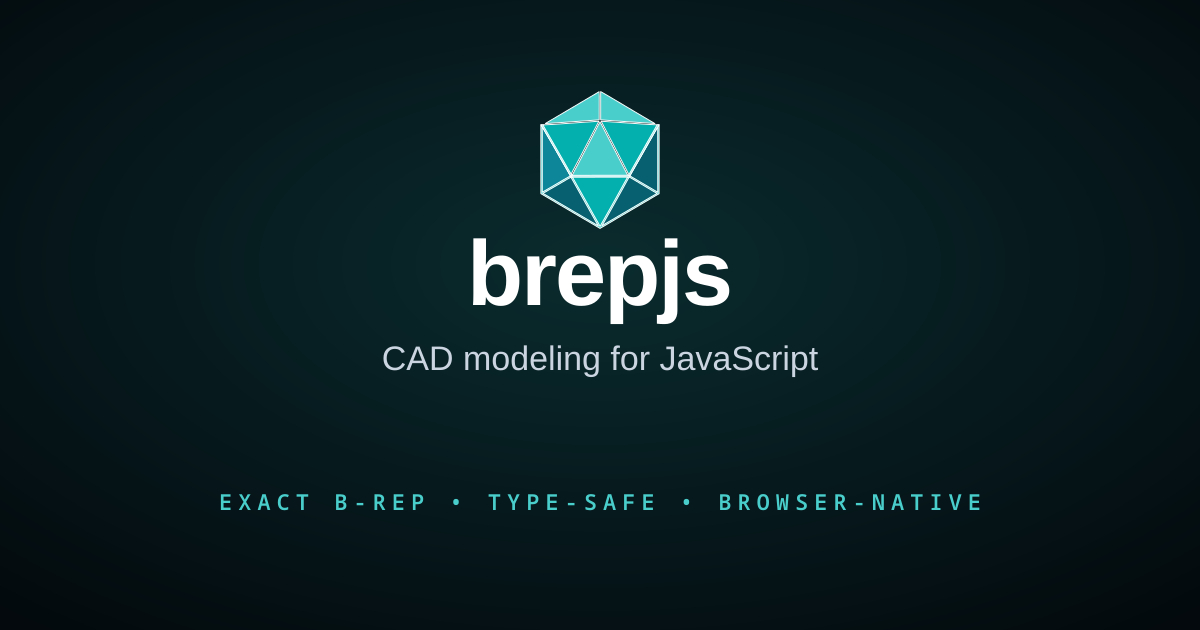
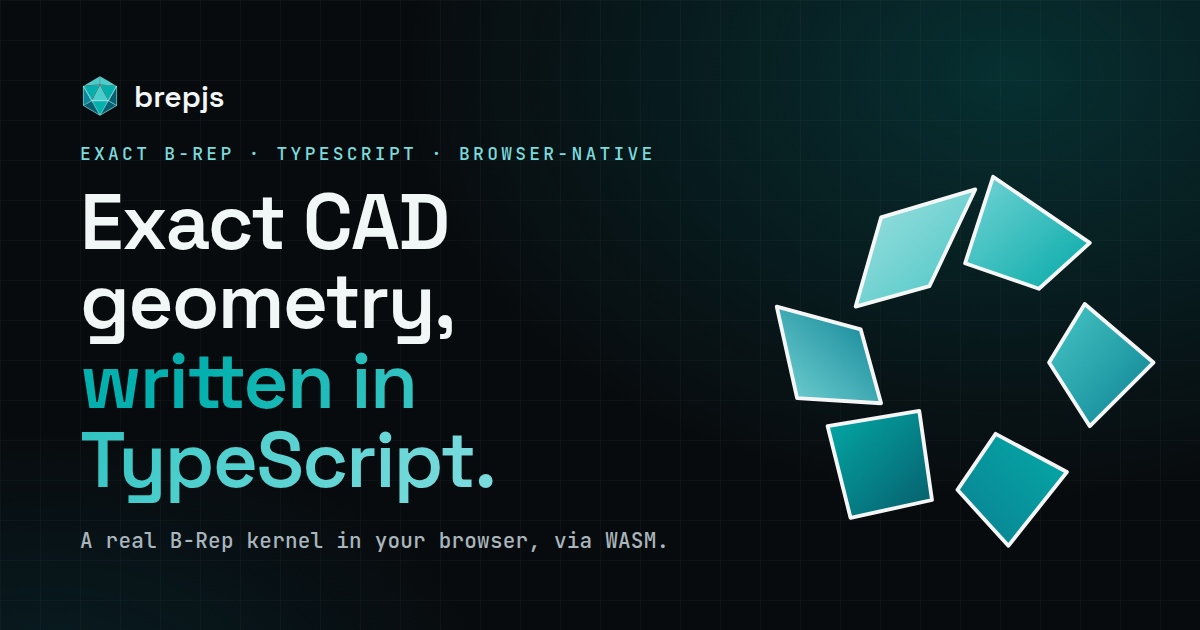
docs(landing): reduced-motion hero, a11y + OG polish (phases 3–4)
- Gate the hero cube's breathe/auto-rotate behind prefers-reduced-motion:
  reduced-motion users get a static assembled cube (dissection seams visible),
  still drag-interactive but no auto-motion. Renders once + on user drag.
- Bump --ink-2 (#6c7780 → #828d96) so caption/spec text clears WCAG AA (4.5:1)
  on the dark ground.
- Footer column headers h4 → h3 to avoid a skipped heading level.
- Add -webkit-backdrop-filter for the nav blur (Safari).
- Replace og.png with a redesign-matching 1200×630 card (gradient headline +
  orthoscheme tetrahedra).

diff --git a/apps/docs/.vitepress/theme/components/heroCubeRenderer.ts b/apps/docs/.vitepress/theme/components/heroCubeRenderer.ts
@@ -59,6 +59,11 @@ export function mountHeroCube(canvas: HTMLCanvasElement, initialDark: boolean): 
   });
   renderer.setPixelRatio(Math.min(window.devicePixelRatio, 2));
 
+  const reduceMotion =
+    typeof window !== 'undefined' &&
+    typeof window.matchMedia === 'function' &&
+    window.matchMedia('(prefers-reduced-motion: reduce)').matches;
+
   const scene = new Scene();
 
   const camera = new PerspectiveCamera(35, 1, 0.1, 100);
@@ -186,7 +191,10 @@ export function mountHeroCube(canvas: HTMLCanvasElement, initialDark: boolean): 
     camera.updateProjectionMatrix();
   }
 
-  const ro = new ResizeObserver(() => resize());
+  const ro = new ResizeObserver(() => {
+    resize();
+    if (reduceMotion) renderer.render(scene, camera);
+  });
   ro.observe(canvas);
   resize();
 
@@ -227,11 +235,24 @@ export function mountHeroCube(canvas: HTMLCanvasElement, initialDark: boolean): 
     renderer.render(scene, camera);
   }
 
-  rafId = requestAnimationFrame(tick);
+  // Honour prefers-reduced-motion: no breathing or auto-rotate. Show the
+  // assembled cube and only re-render when the user drags it (opt-in).
+  let changeHandler: (() => void) | null = null;
+  if (reduceMotion) {
+    root.rotation.y = yaw;
+    for (const p of pieces) p.mesh.position.set(p.baseX, p.baseY, p.baseZ);
+    rimLight.intensity = RIM_BASE;
+    changeHandler = () => renderer.render(scene, camera);
+    controls.addEventListener('change', changeHandler);
+    changeHandler();
+  } else {
+    rafId = requestAnimationFrame(tick);
+  }
 
   return {
     destroy(): void {
       cancelAnimationFrame(rafId);
+      if (changeHandler) controls.removeEventListener('change', changeHandler);
       ro.disconnect();
       controls.dispose();
       pieces.forEach((p) => {

diff --git a/apps/docs/.vitepress/theme/components/Landing.vue b/apps/docs/.vitepress/theme/components/Landing.vue
@@ -425,7 +425,7 @@ onBeforeUnmount(() => observer?.disconnect());
           </p>
         </div>
         <nav class="foot-col" aria-label="Documentation">
-          <h4>Docs</h4>
+          <h3>Docs</h3>
           <a href="/introduction/why-brepjs">Guide</a>
           <a href="/getting-started/install">Get Started</a>
           <a href="/agent/overview">Authoring with AI</a>
@@ -434,7 +434,7 @@ onBeforeUnmount(() => observer?.disconnect());
           >
         </nav>
         <nav class="foot-col" aria-label="Project">
-          <h4>Project</h4>
+          <h3>Project</h3>
           <a href="/playground" target="_blank" rel="noopener">Playground</a>
           <a href="https://github.com/andymai/brepjs" target="_blank" rel="noopener">GitHub</a>
           <a href="https://www.npmjs.com/package/brepjs" target="_blank" rel="noopener">npm</a>
@@ -474,7 +474,7 @@ onBeforeUnmount(() => observer?.disconnect());
 
   --ink-0: #f1f6f7;
   --ink-1: #aab6bd;
-  --ink-2: #6c7780;
+  --ink-2: #828d96;
 
   --line: #1c2530;
   --line-2: #283340;
@@ -583,6 +583,7 @@ pre code {
   position: sticky;
   top: 0;
   z-index: 30;
+  -webkit-backdrop-filter: blur(14px);
   backdrop-filter: blur(14px);
   background: rgba(8, 11, 14, 0.7);
   border-bottom: 1px solid var(--line);
@@ -1181,7 +1182,7 @@ pre.code.big {
   line-height: 1.6;
   max-width: 46ch;
 }
-.foot-col h4 {
+.foot-col h3 {
   font-family: var(--f-mono);
   font-size: 12px;
   letter-spacing: 0.08em;
